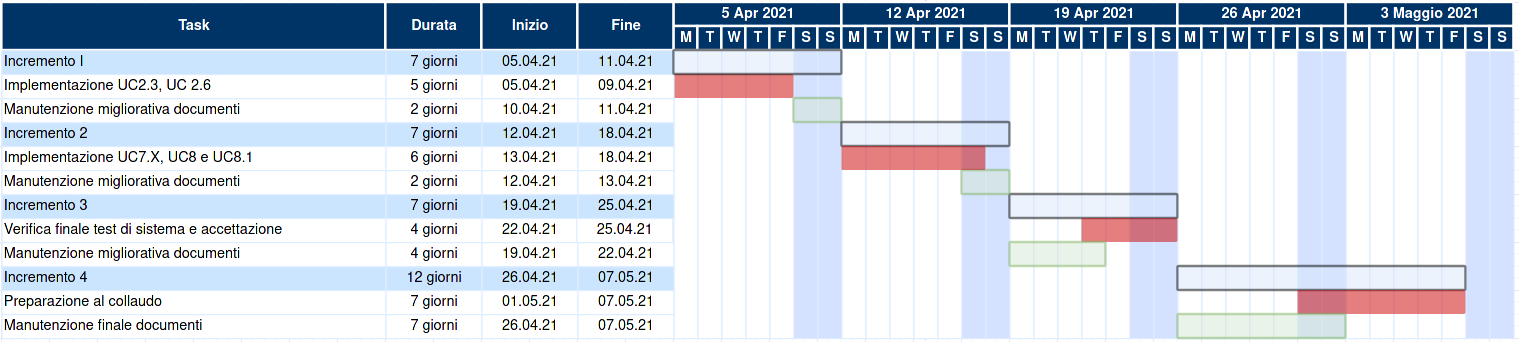
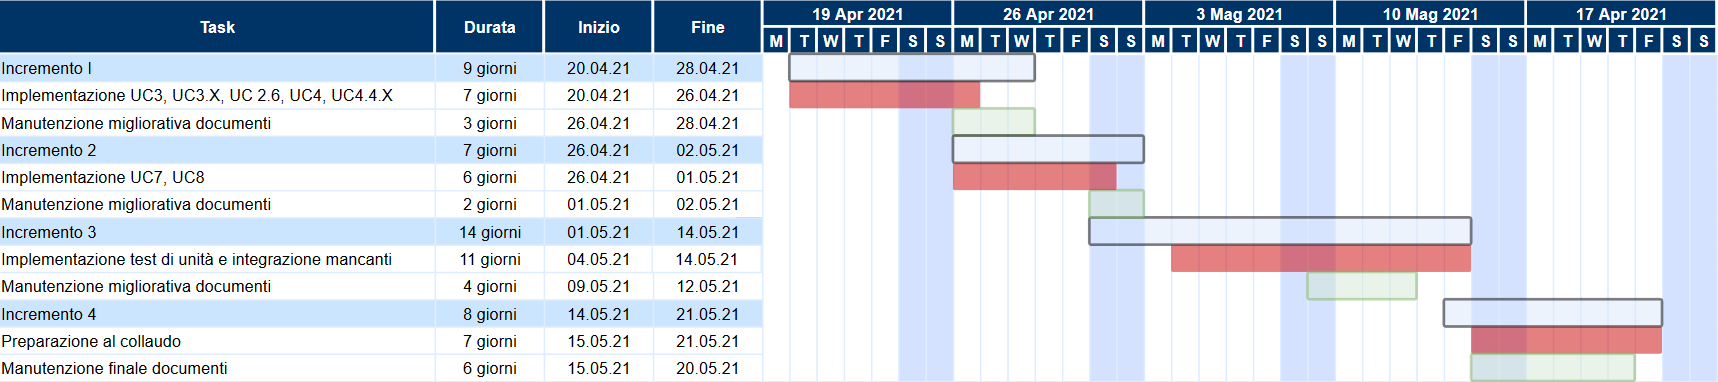
Aggiornamento pianificazione Validazione e Collaudo

diff --git a/piano-di-progetto/source/sections/pianificazione.tex b/piano-di-progetto/source/sections/pianificazione.tex
@@ -139,7 +139,7 @@
     		\end{longtabu}
 
 	\subsection{Validazione e Collaudo}
-	\textbf{Periodo}: dal 05-04-2021 al 07-05-2021 \\
+	\textbf{Periodo}: dal 20-04-2021 al 21-05-2021 \\
 	Ultima fase del progetto che terminerà con la Revisione di Accettazione, la seguente fase è composta in particolare da:
 	\begin{itemize}
 		\item \textbf{Validazione e Collaudo}: Si dimostra il funzionamento di \hd\ davanti al proponete per l'accettazione.
@@ -158,24 +158,24 @@
 	 \hline
 		 \multicolumn{2}{|c|}{\textbf{Incremento 1}} \\
 	 \hline
-	 	Implementazione UC2.3, UC 2.6 &
-		 Implementazione dei casi d'uso facoltativi. \\
+	 	Implementazione UC3, UC3.X, UC 2.6, UC4, UC4.4.X &
+		Implementazione dei casi d'uso elencati. \\
 	 \hline
-		 Manutenzione migliorativa dei documenti &
-		 In particolare: aggiornamento . \\
+		Manutenzione migliorativa dei documenti &
+		In particolare: aggiornamento del Manuale Utente. \\
 	 \hline
 		 \multicolumn{2}{|c|}{\textbf{Incremento 2}} \\
 	 \hline
-	 	Implementazione UC7.X, UC8 e UC8.1 &
-		Implementazione dei casi d'uso facoltativi. \\
+	 	Implementazione UC7, UC8 &
+		Implementazione dei casi d'uso elencati ed eventuali alti casi d'uso facoltativi. \\
 	 \hline
-		 Manutenzione migliorativa dei documenti &
-		 In particolare: termine stesura del Manuale del Manutentore e del Manuale Utente. \\
+		Manutenzione migliorativa dei documenti &
+		In particolare: termine stesura del Manuale del Manutentore e del Manuale Utente. \\
 	 \hline
 	 \multicolumn{2}{|c|}{\textbf{Incremento 3}} \\
 	 \hline
-		Verifica finale test di sistema e accettazione &
-		Verifica test soddisfatti. \\
+		Implementazione test di unità e integrazione mancanti &
+		Implementazione dei test con l'obiettivo di raggiungere la code coverage desiderata. \\
 	 \hline
 		 Manutenzione migliorativa documenti &
 		 In particolare: eventuale aggiornamento del Piano di Qualifica per quanto riguarda i test di sistema e accettazione, correzione segnalazioni correzione RQ. \\

diff --git a/piano-di-progetto/source/changelog.tex b/piano-di-progetto/source/changelog.tex
@@ -1,10 +1,11 @@
 % Mettere sempre la virgola dopo l'ultima riga, se no si rompe la tabella
 
 \def\modifiche{
+    {2.1.1, 2021-04-17, Andrea Mascari, Responsabile, Matteo Falsetti, Aggiornamento pianificazione Verifica e Validazione},
     {2.1.0, 2021-04-03, Alessandro Flori, Verificatore, -, Verifica documento},
     {2.0.3, 2021-04-03, Andrea Mascari, Responsabile, Alessandro Flori, Modifica sezione Attualizzazione rischi},
     {2.0.2, 2021-04-03, Andrea Mascari, Responsabile, Alessandro Flori, Aggiornamento struttura changelog},
-    {2.0.1, 2021-03-20, Andrea Mascari, Responsabile, Alessandro Flori, Modifica pianificazione secondo segnalazioni},
+    {2.0.1, 2021-03-20, Andrea Mascari, Responsabile, Alessandro Flori, Modifica pianificazione Verifica e Validazione secondo segnalazioni},
     {2.0.0,2021-03-10, Diego Piola, Responsabile, -,Approvazione documento per consegna RP},
     {1.1.0,2021-03-08, Andrea Breggion, Verificatore, -,Verifica complessiva documento},
     {1.0.5,2021-03-07, Andrea Mascari, Responsabile, Andrea Breggion,Modificata pianificazione fasi Progettazione di dettaglio e codifica{,} Validazione e collaudo},
